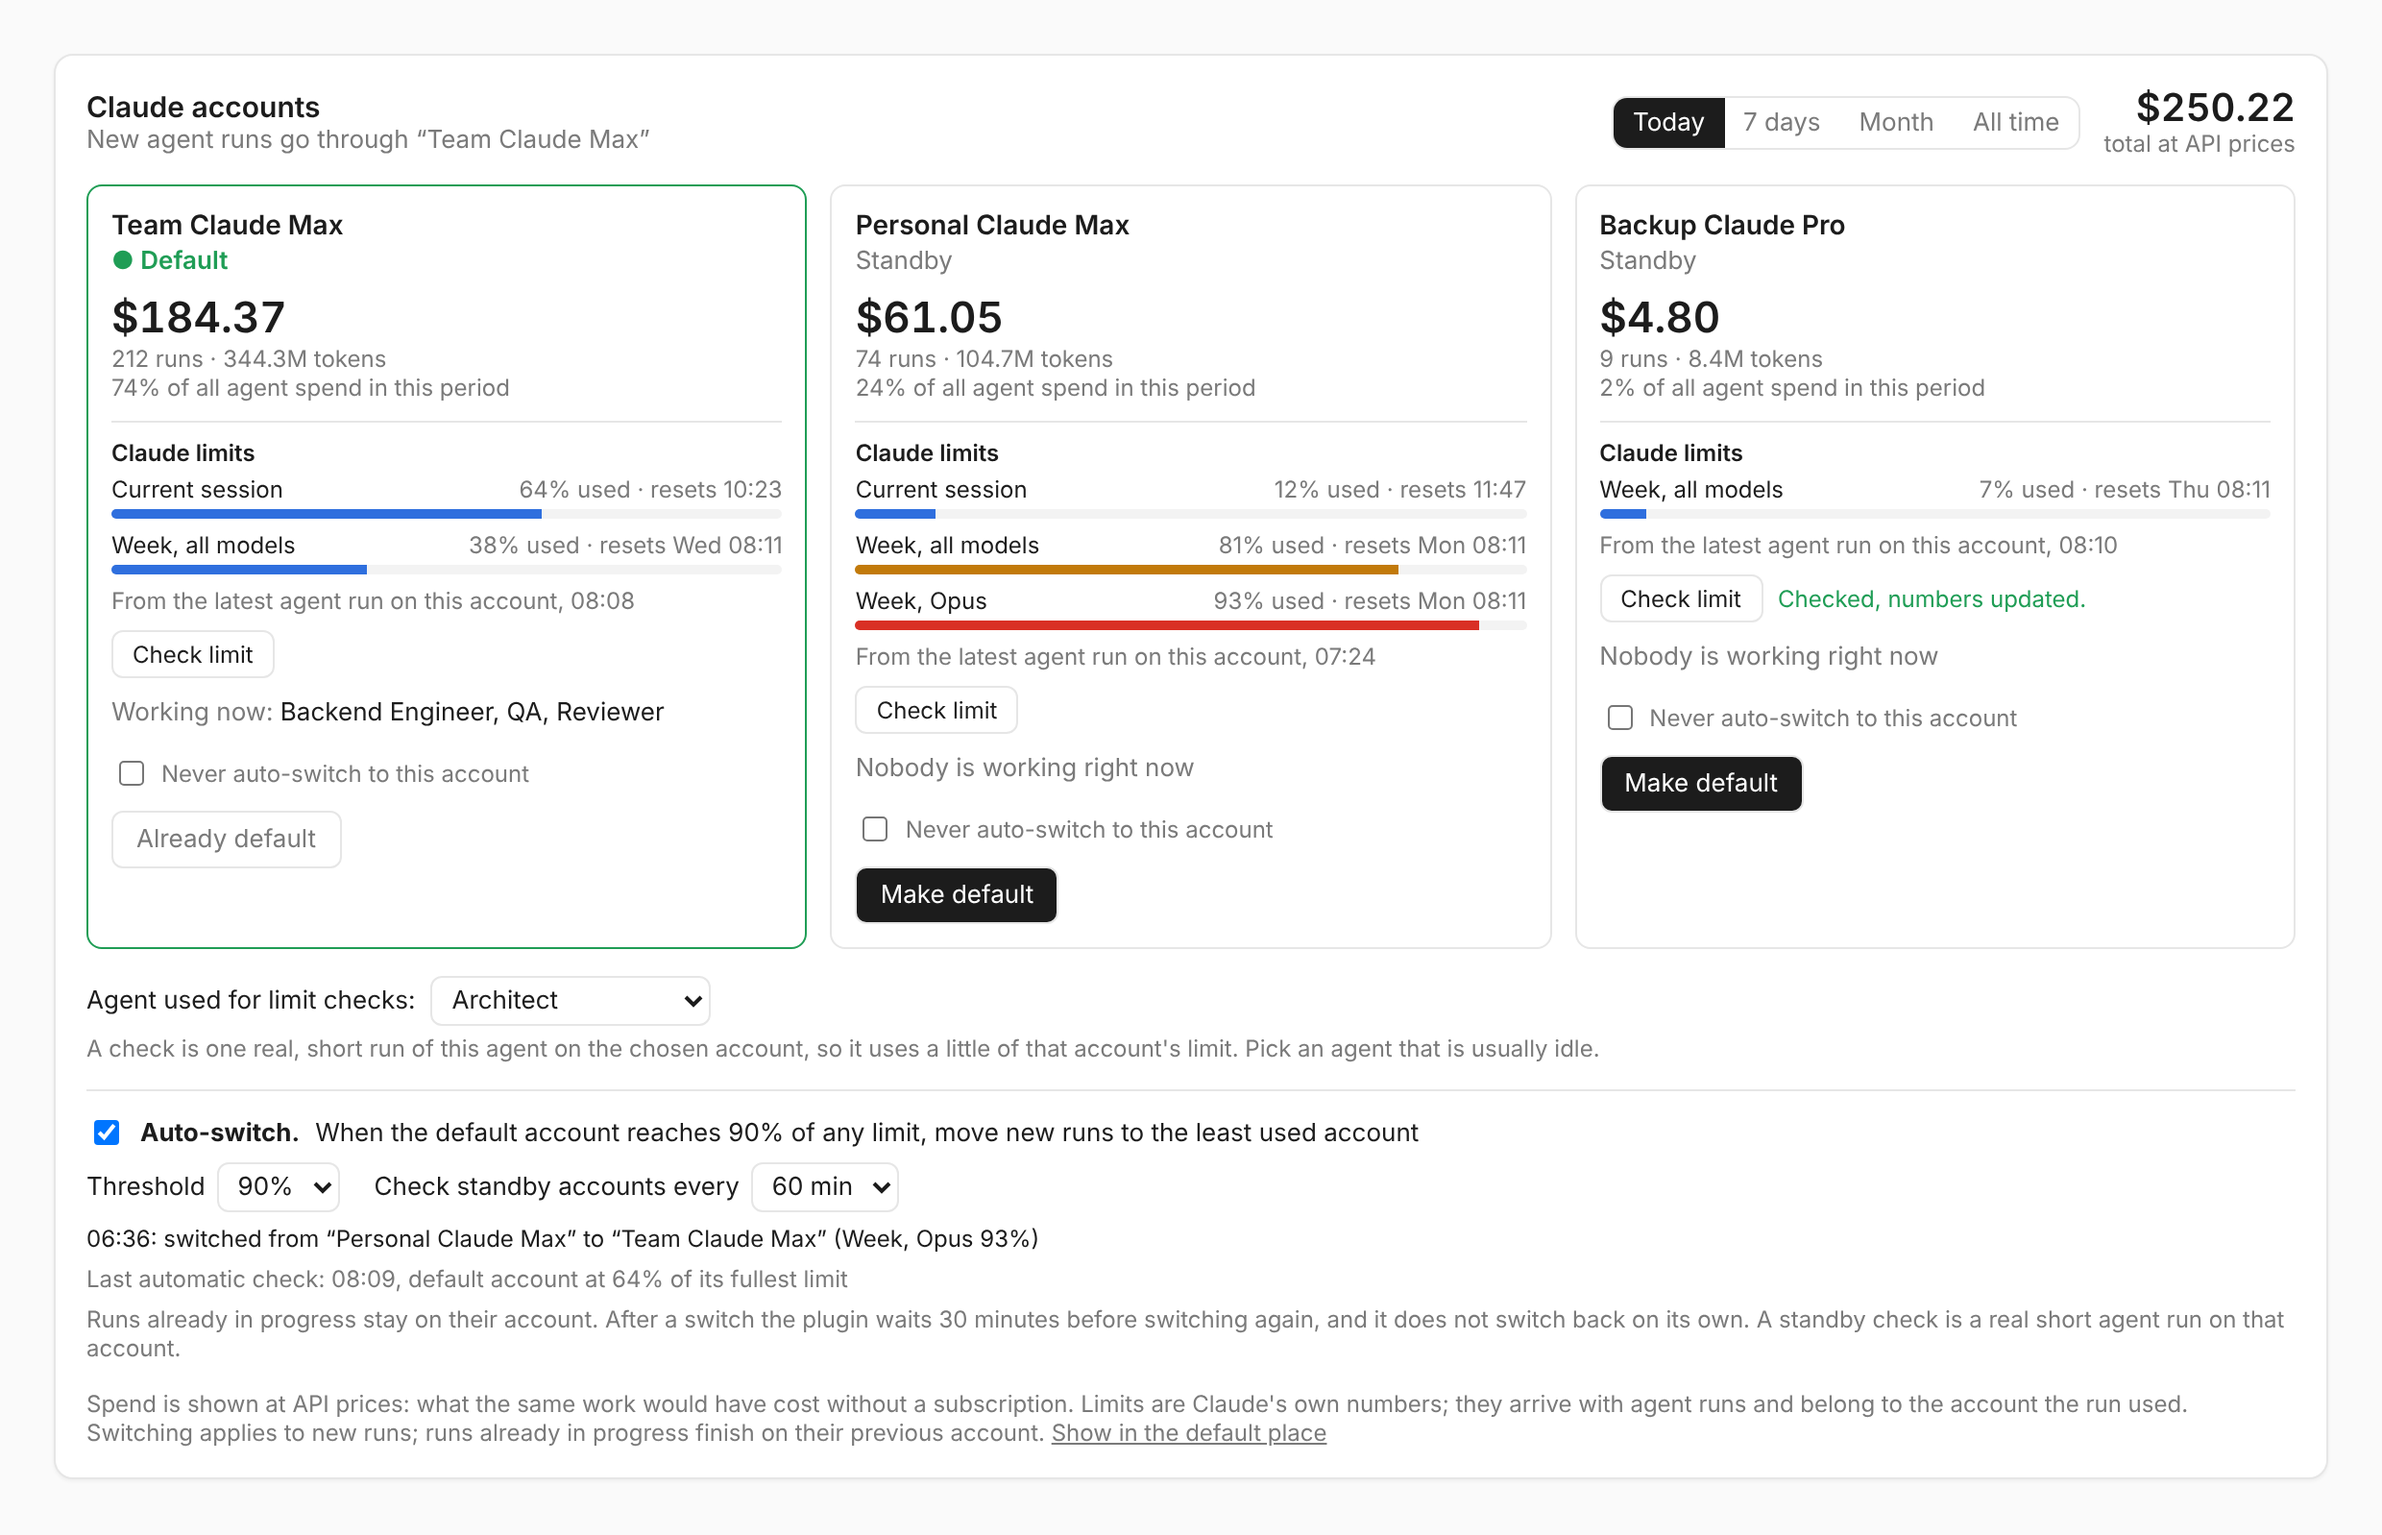
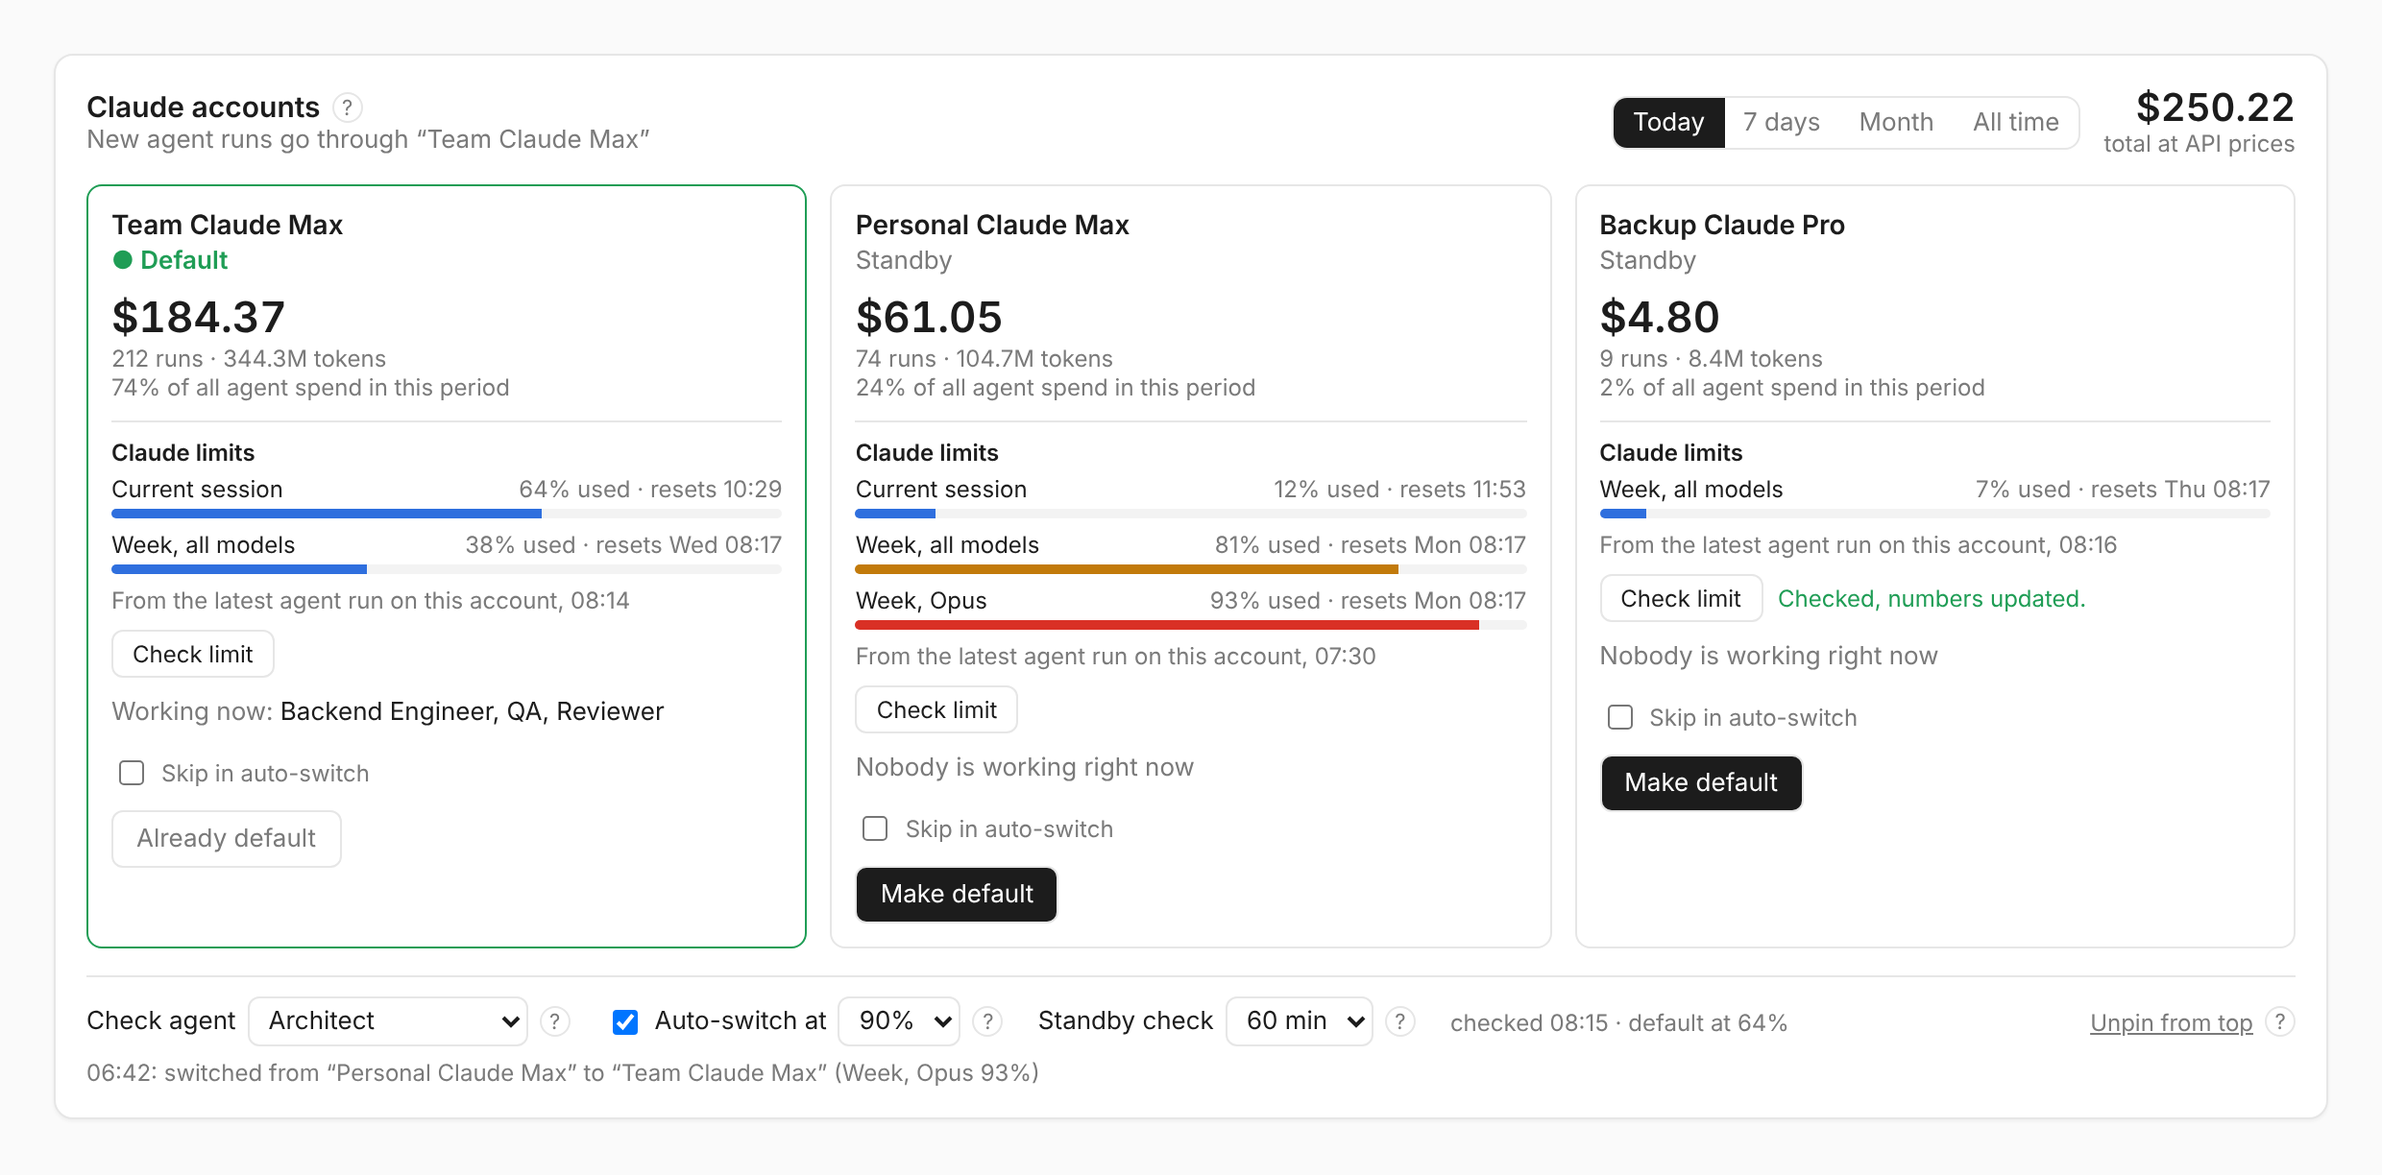
Refresh screenshot and README wording for compact controls
Claude-Session: https://claude.ai/code/session_01YSTKVShPv4uJ7E9nteKast

Changed region(s): [[0.031, 0.0621, 0.9625, 0.9624], [0.621, 0.5899, 0.7762, 0.7141]]

diff --git a/README.md b/README.md
@@ -97,7 +97,7 @@ The button needs the limits patch: without it the run happens but nothing record
 
 ## Auto-switch
 
-Off by default. Tick **Auto-switch** under the accounts to turn it on. From then on a background job
+Off by default. Tick **Auto-switch at** in the controls row under the accounts to turn it on (hover the **?** marks for what each control does). From then on a background job
 runs every 5 minutes, whether or not the dashboard is open:
 
 1. **It looks at the default account.** If its fullest limit window (session, week or a per-model week)
@@ -114,7 +114,7 @@ Good to know:
 - Runs already in progress stay on their account; only new runs move.
 - After a switch it waits 30 minutes before switching again, and it never switches back by itself.
 - If every other account is at the threshold too, it stays put and says so in the widget.
-- Each account has a "Never auto-switch to this account" box.
+- Each account has a "Skip in auto-switch" box.
 - The widget shows the last few switches and when the job last looked.
 - It decides only on numbers newer than 30 minutes for the default account. With no agent running there
   is nothing to switch away from.
@@ -148,8 +148,8 @@ Good to know:
 - **Accounts are matched by name** between Paperclip's connections and its subscription records. Two
   connections with the same name will be confused.
 - **Dashboard placement.** Paperclip has no setting for widget order. The widget stretches itself to full
-  width and, by default, moves the plugin area to the top of the dashboard with CSS. The link at the
-  bottom of the widget switches that off.
+  width and, by default, moves the plugin area to the top of the dashboard with CSS. The **Unpin from top**
+  link in the controls row switches that off.
 - **Unofficial.** Not affiliated with Paperclip or Anthropic. Claude's limit messages are not a documented
   contract and may change.
 
